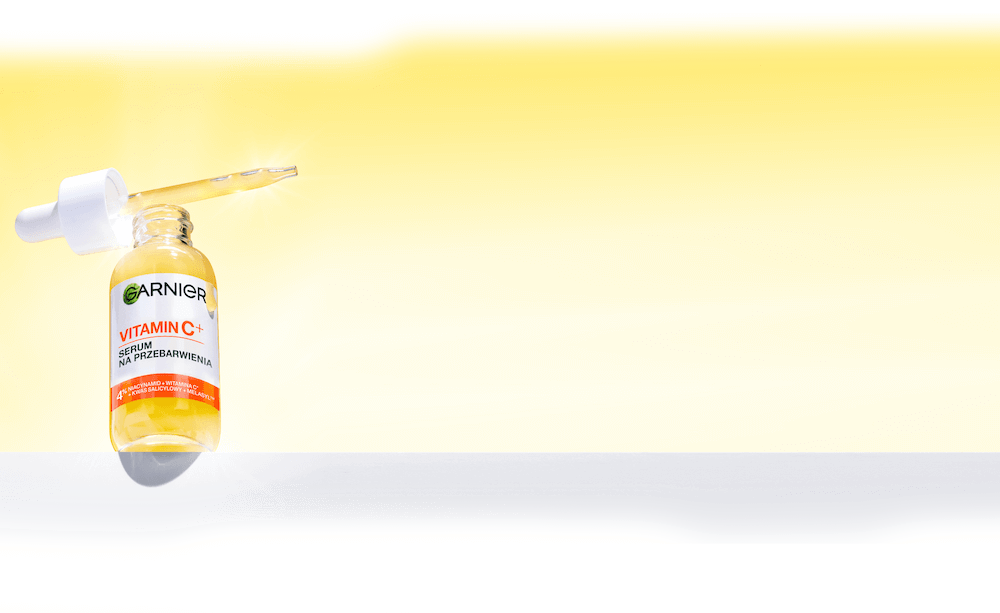
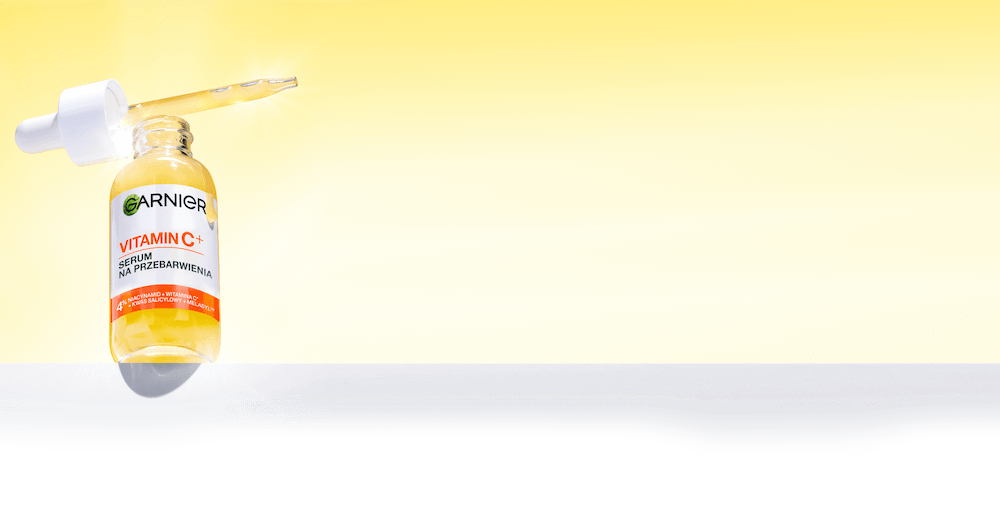
serum section with progress bars

diff --git a/index.html b/index.html
@@ -121,28 +121,28 @@
         skuteczność
       </p>
 
-      <div class="es-benefits__serumWrapper">
+      <div class="es-benefits es-benefits__serumWrapper">
         <div class="es-benefits__border">
           <div class="progress-bar">
             <div class="progress progress--1"></div>
           </div>
           <div class="es-benefits__text">
             Redukcja
-            <span class="es-benefits__span">70%</span> przebarwień<br>
+            <span class="es-benefits__span">70%</span> przebarwień
             po&nbsp;8 tygodniach<sup>1</sup>
           </div>
           <div class="progress-bar">
             <div class="progress progress--2"></div>
           </div>
           <div class="es-benefits__text">
-            Widoczne rozświetlenie skóry<br>
+            Widoczne rozświetlenie skóry
             po 3&nbsp;dniach<sup>1</sup>
           </div>
           <div class="progress-bar">
             <div class="progress progress--3"></div>
           </div>
           <div class="es-benefits__text">
-            <span class="es-benefits__span">98%</span> zauważyło wyrównany<br>
+            <span class="es-benefits__span">98%</span> zauważyło wyrównany
             koloryt skóry<sup>4</sup>
           </div>
         </div>

diff --git a/css/style.scss b/css/style.scss
@@ -206,7 +206,7 @@ $es-black: #000;
     &__border {
       position: relative;
       margin: 20px 5%;
-      border: 2px solid #000000;
+      // border: 2px solid #000000;
       border-radius: 20px;
       padding: 15px 0;
     }
@@ -264,6 +264,8 @@ $es-black: #000;
 
     &__serumWrapper {
       position: relative;
+      background: rgb(244, 236, 148);
+      background: linear-gradient(180deg, rgba(244, 236, 148, 1) 0%, rgba(244, 236, 148, 1) 50%, rgba(231, 232, 237, 1) 50%, rgba(231, 232, 237, 1) 100%);
     }
 
     &__serumimg {

diff --git a/css/style.css b/css/style.css
@@ -171,7 +171,6 @@
 #es-garnier.es-garnier .es-benefits__border {
   position: relative;
   margin: 20px 5%;
-  border: 2px solid #000000;
   border-radius: 20px;
   padding: 15px 0;
 }
@@ -222,6 +221,8 @@
 }
 #es-garnier.es-garnier .es-benefits__serumWrapper {
   position: relative;
+  background: rgb(244, 236, 148);
+  background: linear-gradient(180deg, rgb(244, 236, 148) 0%, rgb(244, 236, 148) 50%, rgb(231, 232, 237) 50%, rgb(231, 232, 237) 100%);
 }
 #es-garnier.es-garnier .es-benefits__serumimg {
   margin: 0 auto;
